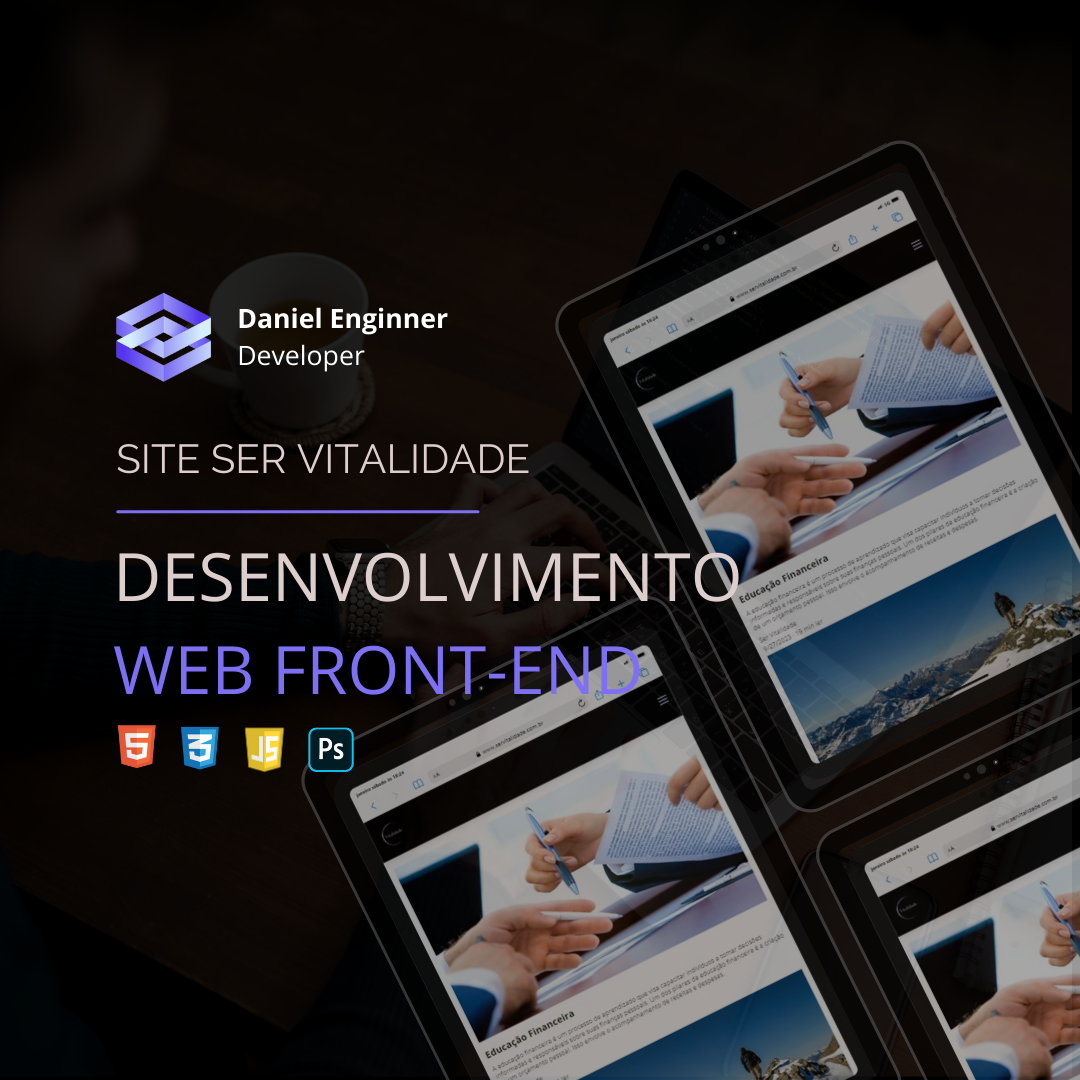
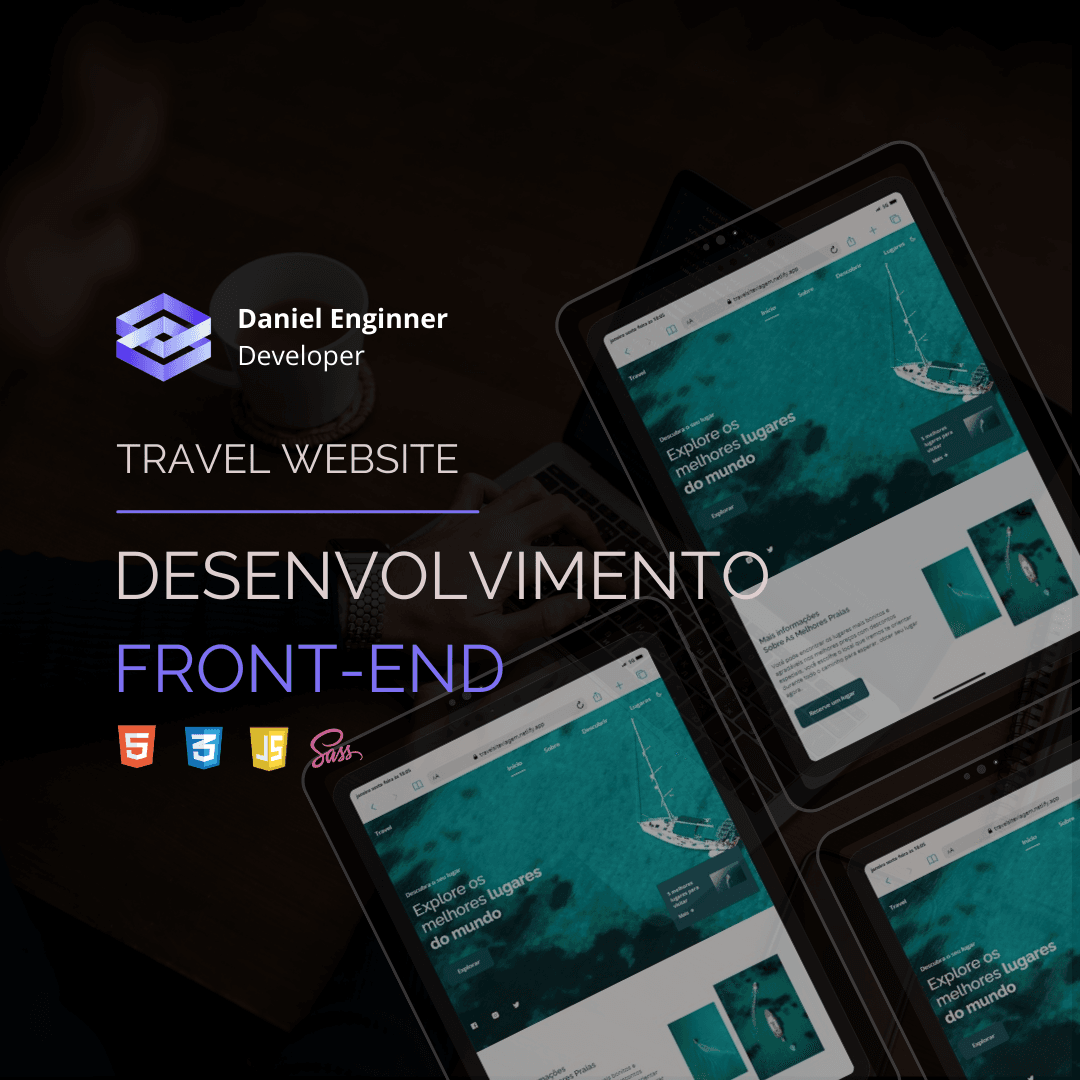
adicionar melhorias e atualizações

Changed region(s): [[0.0917, 0.1833, 1.0, 1.0], [0.7944, 0.7333, 1.0, 1.0], [0.0917, 0.3972, 0.4889, 0.4583]]

diff --git a/index.html b/index.html
@@ -98,7 +98,9 @@
           <div class="about-content">
             <h2 class="h2 section-title underline">Sobre mim</h2>
             <p class="about-text">
-              Olá! Tenho mais de 1 ano de experiência como Desenvolvedor Front-end. Sou um programador extremamente
+              Olá! Me chamo Daniel Portela e espero tomar um café com você, caso goste. Tenho mais de 1 ano de
+              experiência como
+              Desenvolvedor Front-end. Sou um programador extremamente
               dedicado com formação em Análise e Desenvolvimento de Sistemas, pela UNINASSAU. Tenho trabalhado em uma
               variedade de projetos de sites como freelancer e autônomo que me permitiram aprimorar minhas habilidades
               técnicas e
@@ -115,7 +117,7 @@
             <ul class="stats-list">
               <li class="stats-card">
                 <p class="h3 stats-title">3+</p>
-                <p class="stats-text">Clientes satisfeitos</p>
+                <p class="stats-text">Projetos web design</p>
               </li>
               <li class="stats-card">
                 <p class="h3 stats-title">+60</p>
@@ -140,7 +142,7 @@
                 <div class="card-icon">
                   <ion-icon name="code-outline"></ion-icon>
                 </div>
-                <h3 class="h3 title">Desenvolvedor Front-end</h3>
+                <h3 class="h3 title">Desenvolvimento Front-end</h3>
                 <p class="text">
                   Como desenvolvedor front-end, estou focado em dar vida a interfaces web atraentes e funcionais. Minha
                   paixão está em transformar conceitos de design em sites interativos e responsivos que proporcionam uma
@@ -154,9 +156,9 @@
                 <div class="card-icon">
                   <ion-icon name="desktop-outline"></ion-icon>
                 </div>
-                <h3 class="h3 title">Web Designer</h3>
+                <h3 class="h3 title">Web Design</h3>
                 <p class="text">
-                  Sou um web designer altamente qualificado e apaixonado por criar experiências online incríveis. Com
+                  Sou um web designer altamente qualificado e apaixonado por criar experiências online incríveis. Tenho
                   mais de 1 ano de experiência no mundo do design e desenvolvimento web, estou pronto para transformar
                   sua visão em uma presença online cativante e eficaz.
                 </p>
@@ -207,7 +209,8 @@
                 <div class="content">
                   <h3 class="h3 title">Web Design</h3>
                   <p class="text">
-                    Experiência extensiva no desenvolvimento de sites usando o WordPress, tornando-a completamente
+                    Experiência no desenvolvimento de sites usando o WordPress e Elementor, Photoshop e Canva,
+                    tornando-a completamente
                     responsivos.
                   </p>
                 </div>
@@ -299,29 +302,29 @@
             <li>
               <div class="blog-card">
                 <figure class="banner">
-                  <a href="#projects">
-                    <img src="./assets/images/project-5.png" width="750" height="350" loading="lazy"
-                      alt="site cafeteria toque sedutor desenvolvimento web front-end" class="img-cover">
+                  <a href="#/">
+                    <img src="./assets/images/project-2.jpg" width="750" height="350" loading="lazy"
+                      alt="site clident odontologia desenvolvido com html, css e javascript" class="img-cover">
                   </a>
                 </figure>
 
                 <div class="content">
                   <h3 class="h3 title">
-                    Cafeteria toque sedutor - freelancer
+                    Clident Odontologia - freelancer
                   </h3>
                   <p class="text">
-                    Esse projeto realizado como Desenvolvedor Front-end foi feito para uma cafeteria local. É um esforço
-                    dedicado para criar uma experiência online única e atraente para os clientes da empresa.
+                    O projeto de site online foi desenvolvido para a clínica local como freelancer, utilizando HTML5,
+                    CSS3 e JavaScript. Site totalmente responsivo!
                   </p>
 
                   <div class="meta">
                     <div class="publish-date">
                       <button class="comment" aria-label="Comment">
-                        <a href="https://cafeteriawebsite.netlify.app/" target="_blank"><ion-icon
+                        <a href="https://clidentodontologia.netlify.app/" target="_blank"><ion-icon
                             name="link"></ion-icon></a>
                       </button>
                       <button class="share" aria-label="Share">
-                        <a href="https://github.com/daniel-portela/Cafeteria" target="_blank"><ion-icon
+                        <a href="https://github.com/daniel-portela/clident-odontologia" target="_blank"><ion-icon
                             name="code"></ion-icon></a>
                       </button>
                     </div>
@@ -332,30 +335,30 @@
             <li>
               <div class="blog-card">
                 <figure class="banner">
-                  <a href="#projects">
+                  <a href="#/">
                     <img src="./assets/images/project-3.png" width="750" height="350" loading="lazy"
-                      alt="Site ser vitalidade desenvolvido com html, css e javascript" class="img-cover">
+                      alt="Site de viagens desenvolvido com html, css, scss e javascript" class="img-cover">
                   </a>
                 </figure>
 
                 <div class="content">
                   <h3 class="h3 title">
-                    Ser Vitalidade - Freelancer - Web Designer
+                    Travel Website
                   </h3>
                   <p class="text">
-                    Desenvolvedor Web Front-end - 6 meses: Minha principal responsabilidade era resolver problemas de
-                    desempenho,
-                    ajustando layouts para melhorar a experiência do usuário.
+                    Site responsivo utilizando HTML5, SCSS, CSS3 e JavaScript. Empregado para implementar as animações e
+                    interações durante a navegação entre páginas.
                   </p>
 
                   <div class="meta">
                     <div class="publish-date">
                       <button class="comment" aria-label="Comment">
-                        <a href="https://www.servitalidade.com.br" target="_blank"><ion-icon name="link"></ion-icon></a>
+                        <a href="https://travelsiteviagem.netlify.app/" target="_blank"><ion-icon
+                            name="link"></ion-icon></a>
                       </button>
                       <button class="share" aria-label="Share">
-                        <a href="https://www.danielengineer.com.br/portfolio" target="_blank"><ion-icon
-                            name="link"></ion-icon></a>
+                        <a href="https://github.com/daniel-portela/travel-website" target="_blank"><ion-icon
+                            name="code"></ion-icon></a>
                       </button>
                     </div>
                   </div>
@@ -366,29 +369,29 @@
             <li>
               <div class="blog-card">
                 <figure class="banner">
-                  <a href="#projects">
-                    <img src="./assets/images/project-2.png" width="750" height="350" loading="lazy"
-                      alt="Site empréstimos desenvolvido com html, css e javascript" class="img-cover">
+                  <a href="#/">
+                    <img src="./assets/images/project-4.png" width="750" height="350" loading="lazy"
+                      alt="Site de blog desenvolvido com html, css, scss, javascript e react" class="img-cover">
                   </a>
                 </figure>
 
                 <div class="content">
                   <h3 class="h3 title">
-                    Site de empréstimos
+                    Technology Blog
                   </h3>
                   <p class="text">
-                    Esse projeto oferece uma experiência incrível aos usuários. Site completo com
-                    design responsivo usando HTML5, CSS3 e JavaScript de forma complexa.
+                    Esse projeto foi utilizado com React + Vite para fornecer uma configuração mínima para fazer o React
+                    funcionar no Vite com HMR e algumas regras ESLint.
                   </p>
 
                   <div class="meta">
                     <div class="publish-date">
                       <button class="comment" aria-label="Comment">
-                        <a href="https://siteemprestimo.netlify.app/" target="_blank"><ion-icon
+                        <a href="https://technology-blog-tan.vercel.app/" target="_blank"><ion-icon
                             name="link"></ion-icon></a>
                       </button>
                       <button class="share" aria-label="Share">
-                        <a href="https://github.com/daniel-portela/loan-website" target="_blank"><ion-icon
+                        <a href="https://github.com/daniel-portela/technology-blog" target="_blank"><ion-icon
                             name="code"></ion-icon></a>
                       </button>
                     </div>
@@ -399,8 +402,8 @@
             <li>
               <div class="blog-card">
                 <figure class="banner">
-                  <a href="#projects">
-                    <img src="./assets/images/project-4.png" width="750" height="350" loading="lazy"
+                  <a href="#/">
+                    <img src="./assets/images/project-5.png" width="750" height="350" loading="lazy"
                       alt="página de orçamento desenvolvido com html, css e javascript" class="img-cover">
                   </a>
                 </figure>
@@ -432,7 +435,7 @@
             <li>
               <div class="blog-card">
                 <figure class="banner">
-                  <a href="#projects">
+                  <a href="#/">
                     <img src="./assets/images/project-6.png" width="750" height="350" loading="lazy"
                       alt="formulário de login desenvolvimento front-end" class="img-cover">
                   </a>
@@ -445,7 +448,8 @@
                     </a>
                   </h3>
                   <p class="text">
-                    Formulário de login para envio de dados com verificação obrigatória e integrado com api's.
+                    Formulário de login para envio de dados com verificação obrigatória e de dados dos usuários
+                    cadastrados. Todos os campos são obrigatórios!
                   </p>
 
                   <div class="meta">

diff --git a/README.md b/README.md
@@ -11,11 +11,63 @@
 <a href="https://danielportela.netlify.app/"><strong>Demonstração ao vivo</strong></a>
 </div><br>
 
-![Alt text](<portfolio front-end.jpg>)
+![alt text](preview.jpg)
 
 
-<img width=100% src="https://capsule-render.vercel.app/api?type=waving&color=0000f2&height=45&section=footer"/>
+<b>HTML Semântico:</b>
 
+Utilização de elementos HTML semânticos para estruturar o conteúdo de forma clara e compreensível.<br><br>
+
+<b>CSS Bem Estruturado:</b>
+
+Organização do CSS usando boas práticas, como a metodologia BEM (Block Element Modifier) para facilitar a manutenção.<br><br>
+
+<b>JavaScript Interativo:</b>
+
+Implementação de interatividade usando JavaScript para aprimorar a experiência do usuário sem sacrificar o desempenho.<br><br>
+
+<b>Responsividade Total:</b>
+
+Adaptação perfeita do layout para diversos tamanhos de tela, garantindo uma experiência consistente em dispositivos desktop, tablets e smartphones.<br><br>
+
+<b>Design Atraente e Consistente:</b>
+
+Escolha cuidadosa de paleta de cores e tipografia para criar um design visualmente agradável e profissional.
+Consistência visual em todo o site para uma experiência coesa.<br><br>
+
+<b>Usabilidade e Navegabilidade:</b>
+
+Menu de navegação intuitivo e fácil de usar em todas as plataformas.
+Garantia de que os elementos interativos sejam acessíveis e compreensíveis para todos os usuários.<br><br>
+
+<b>Performance Otimizada:</b>
+
+Carregamento eficiente de recursos para garantir tempos de carregamento rápidos.
+Otimização de imagens e código para reduzir a largura de banda necessária.<br><br>
+
+<b>Acessibilidade:</b>
+
+Implementação de práticas de acessibilidade para garantir que o site seja utilizado por todos, independentemente de limitações físicas ou tecnológicas.<br><br>
+
+<b>Validação de Código:</b>
+
+Garantia de que o HTML, CSS e JavaScript sigam padrões e estejam livres de erros, utilizando validadores adequados.<br><br>
+
+<b>Compatibilidade Cross-Browser:</b>
+
+Testes em diferentes navegadores para assegurar uma experiência consistente para usuários de Chrome, Firefox, Safari, Edge, entre outros.<br><br>
+
+<b>Adaptação Dinâmica:</b>
+
+Utilização de recursos dinâmicos, como animações suaves e transições, para melhorar a experiência do usuário sem prejudicar a usabilidade.<br><br>
+
+<b>Feedback Visual:</b>
+
+Implementação de feedback visual para ações do usuário, como hover, foco e clique, para melhorar a interatividade.<br><br>
+
+<b>Manutenibilidade do Código:</b>
+
+Compromisso com a melhoria contínua do projeto, incluindo atualizações regulares de conteúdo e refinamento do design conforme necessário.
 
 <br><b>Contato:</b>
 
